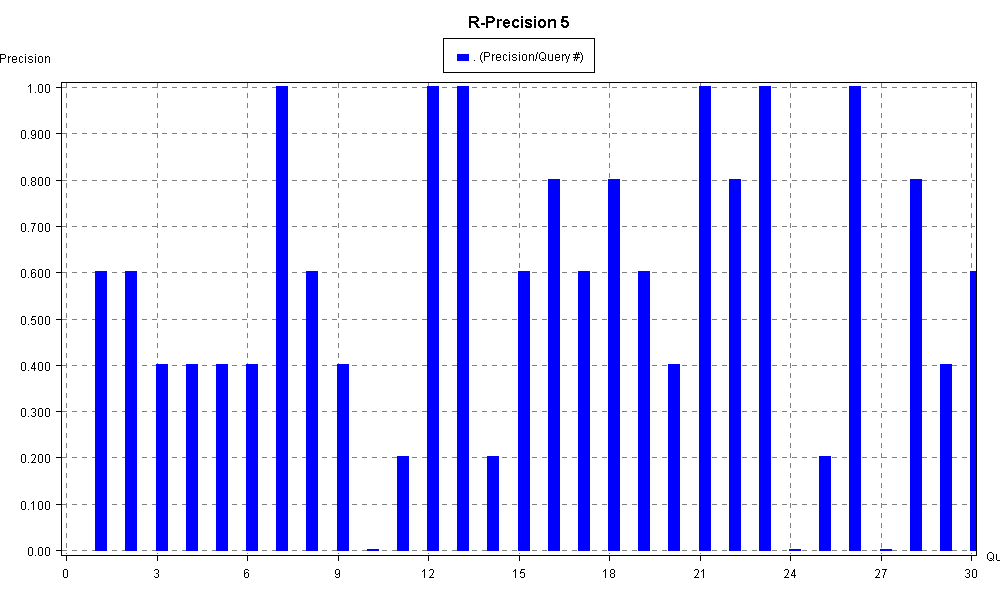
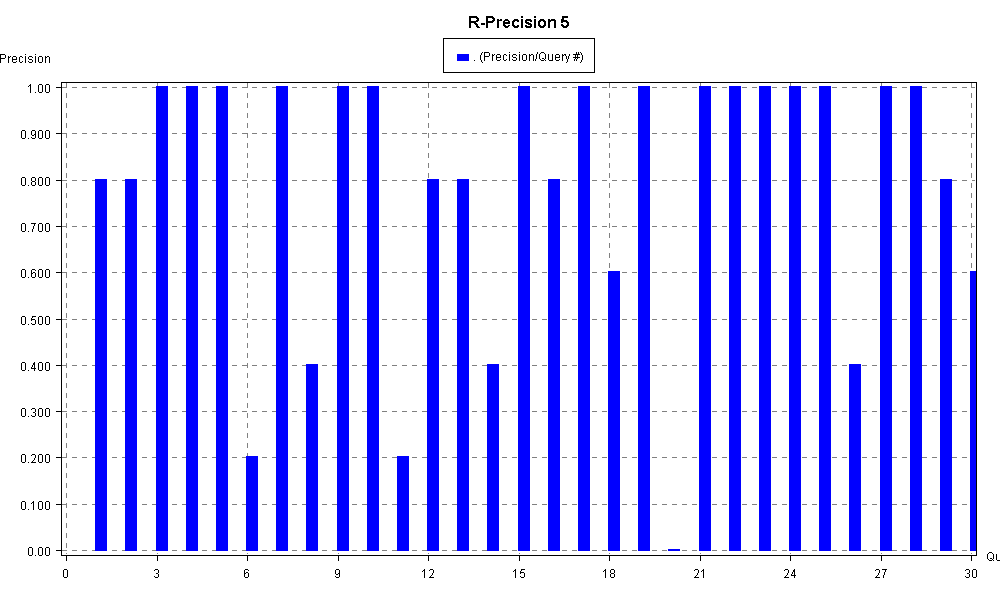
bench

diff --git a/src/PrecisionRecall.java b/src/PrecisionRecall.java
@@ -48,8 +48,8 @@ public class PrecisionRecall {
 
 
 	public void start() throws Exception {
-		File topicsFile = new File("./dataset/clinical_dataset/Topics/MyQuery/Topics2014.txt");
-		File qrelsFile = new File("./dataset/clinical_dataset/Qrels/qrels-sampleval-2014.txt");
+		File topicsFile = new File("./dataset/clinical_dataset/Topics/MyQuery/Topics2015A.txt");
+		File qrelsFile = new File("./dataset/clinical_dataset/Qrels/qrels-sampleval-2015.txt");
 
 		FSDirectory open = FSDirectory.open(Paths.get(s));
 
@@ -117,7 +117,7 @@ public class PrecisionRecall {
 		System.out.println("Plotting precision graph");
 		// Precision
 		Plot plot = Plot
-				.plot(Plot.plotOpts().title("Precision graph - ").width(1000).height(600).legend(Plot.LegendFormat.TOP))
+				.plot(Plot.plotOpts().title("Precision graph").width(1000).height(600).legend(Plot.LegendFormat.TOP))
 				.xAxis("Query #", Plot.axisOpts().format(Plot.AxisFormat.NUMBER_INT).range(0, num_queries.size()))
 				.yAxis("Precision", Plot.axisOpts().range(0, getMax(precision)))
 				.series(".", Plot.data().xy(num_queries, precision), Plot.seriesOpts().line(Line.NONE)
